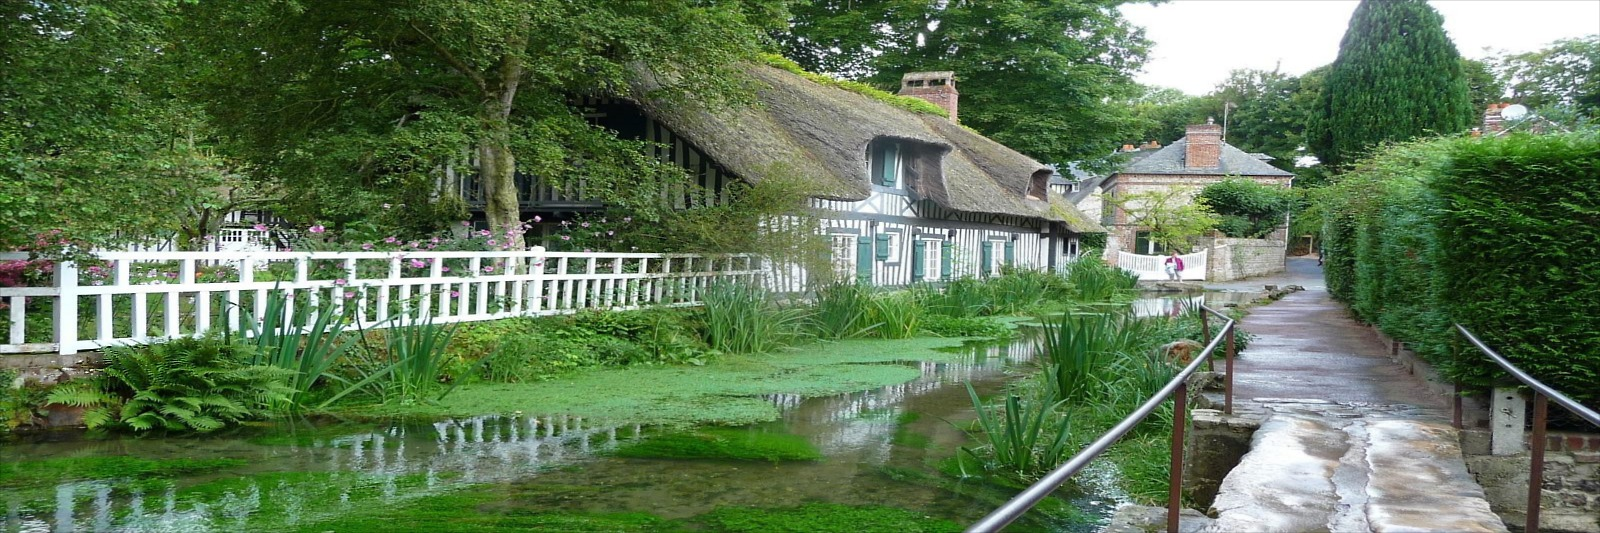
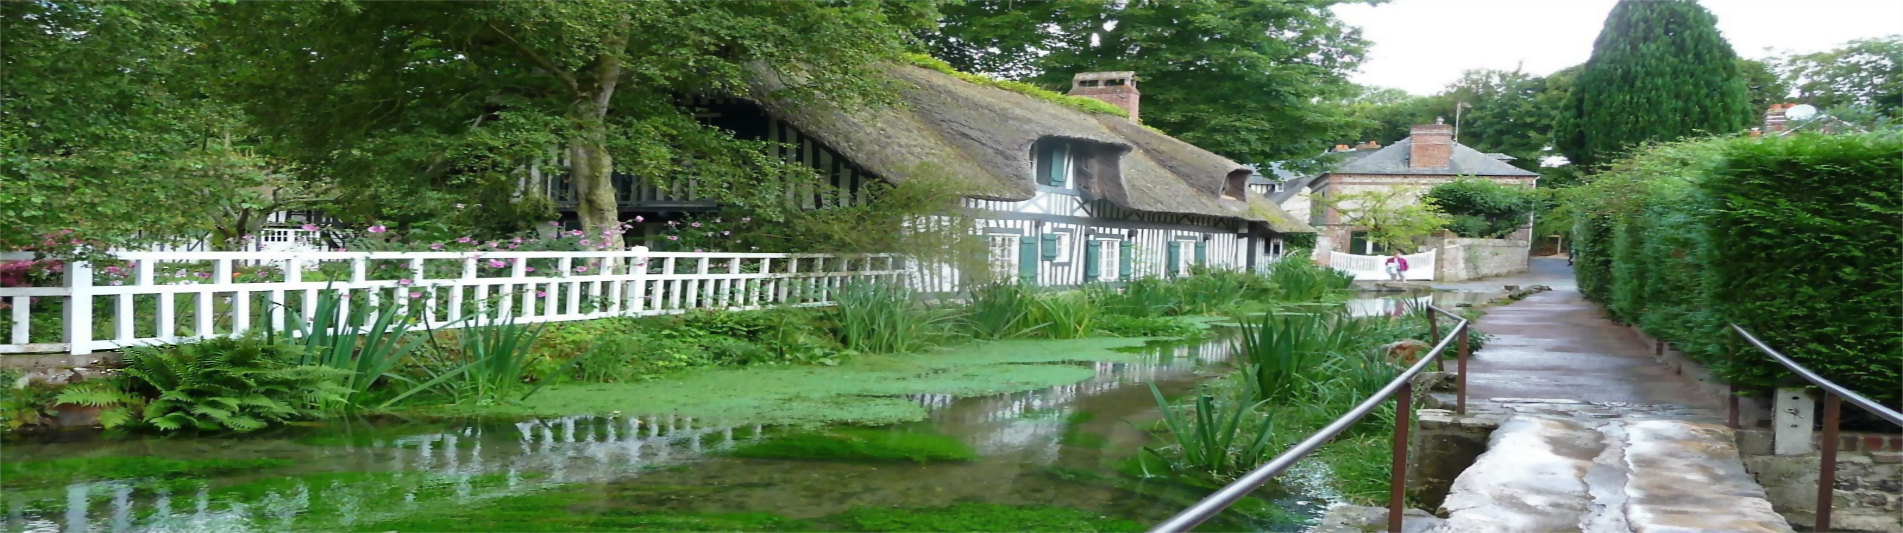
slider

Changed region(s): [[0.0, 0.9906, 1.0, 1.0], [0.5625, 0.4203, 0.625, 0.4503]]

diff --git a/public/css/style.css b/public/css/style.css
@@ -116,7 +116,7 @@ header
 	padding: 0px;
 	margin: 0px;
 	margin-bottom: 30px;
-	object-fit: cover;
+	object-fit: fill;
 }
 /* fin css slider */
 

diff --git a/resources/views/home.blade.php b/resources/views/home.blade.php
@@ -82,7 +82,7 @@
 
   <div id="access">
         <div id="superp">
-            <a href="{{ route('single', ['id' => $lieu->id])}}"><img src="{{ Image::url(asset($lieu['path_image'] . '/' . $lieu['new_name_image']) ,400,400)}}"/></a>
+            <a href="{{ route('single', ['id' => $lieu->id])}}"><img src="{{ Image::url(asset($lieu['path_image'] . '/' . $lieu['new_name_image']) ,350,350)}}"/></a>
             <p>{{ $lieu['lieu'] }}</p>
         </div>
   </div>
